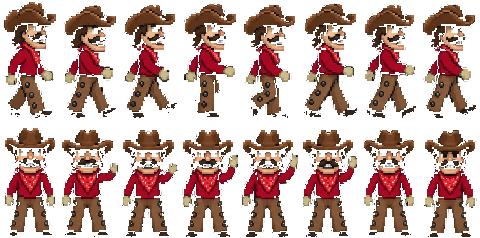
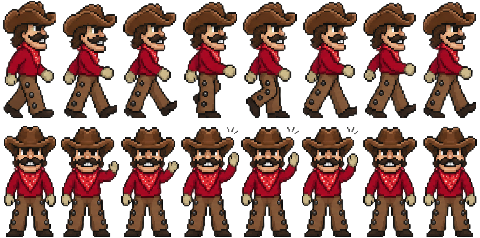
Fix the ranger's holes, shorten his walk, give him something to walk behind
The holes
- The sheet was built by finding the background with a brightness test and
  deleting it. That located the frames correctly and then deleted every dark
  pixel inside them - 11,944 per frame - which is his outline, his boots and
  every shadowed fold. Hence a character full of gaps.
- The source already carries alpha. The backdrop is alpha 0 to 4 with junk RGB
  underneath, so transparency needed reading, not inferring. Frame geometry
  still comes from the brightness pass, which is good at finding where the art
  is and has no business deciding what inside it is art.
- Frame 0 now keeps 1,628 dark pixels that the previous build removed entirely.

The walk
- Shorter and quicker: 17% of the composer instead of 32%, 88 px/s instead of
  46, and a 1.5s wave instead of 2.2s. The old timing had him strolling for
  the better part of six seconds, which is a long time for a joke.

Appearing from nothing
- He materialised at the left edge and dissolved there on the way out. He now
  walks inside a strip that clips at its own edges, so he passes behind them
  like a figure leaving the side of a stage.
- A clipping strip rather than a white block over the top: an occluder would
  have to match whatever is behind it, and depending on the skin and the state
  that is a pill, a suggestion strip, or the page.

diff --git a/templates/index.html b/templates/index.html
@@ -44,9 +44,26 @@
        away from each frame's edge rather than thresholded, so the character's
        own dark outline and boots survive, and every frame is bottom-aligned on
        one baseline so he does not bob while walking. */
+    /* The strip he walks along, and the reason he does not appear from
+       nothing. It clips at its own edges, so he passes behind them the way a
+       figure walks off the side of a stage rather than fading out mid-air.
+       Cheaper than an overlay too: an occluding white block would have to
+       match whatever is behind it, and here there is a pill, a suggestion
+       strip and a page edge behind it depending on the skin. */
+    .ranger-stage {
+      position: absolute;
+      left: 0;
+      right: 0;
+      bottom: 100%;
+      height: 56px;
+      overflow: hidden;
+      pointer-events: none;
+      z-index: 40;
+    }
+
     .ranger {
       position: absolute;
-      bottom: 100%;
+      bottom: 0;
       width: 27px;
       height: 54px;
       background-image: url("/static/ranger.png");
@@ -1851,19 +1868,23 @@
       if (!rail) return;
       busy = true;
 
+      const stage = document.createElement("div");
+      stage.className = "ranger-stage";
+      stage.setAttribute("aria-hidden", "true");
+
       const el = document.createElement("div");
       el.className = "ranger walking";
-      el.style.left = "-40px";
-      el.setAttribute("aria-hidden", "true");
-      rail.appendChild(el);
+      el.style.left = "-34px";
+      stage.appendChild(el);
+      rail.appendChild(stage);
 
       // How far he walks is a share of the rail rather than a pixel count, so
       // the trip makes sense on a phone and on a wide window. The duration is
       // derived from the distance to hold his speed constant - a fixed
       // duration would have him sprinting across a large screen.
-      const stop = Math.max(60, Math.round(rail.clientWidth * 0.32));
-      const speed = 46; // px per second, about right for the stride
-      const walkMs = Math.round((stop + 40) / speed * 1000);
+      const stop = Math.max(44, Math.round(rail.clientWidth * 0.17));
+      const speed = 88; // px per second, matched to the stride at 0.72s a loop
+      const walkMs = Math.round((stop + 34) / speed * 1000);
 
       requestAnimationFrame(() => {
         el.style.transition = "left " + walkMs + "ms linear";
@@ -1874,14 +1895,14 @@
         el.classList.remove("waving");
         el.classList.add("walking", "leaving");
         el.style.transition = "left " + walkMs + "ms linear";
-        el.style.left = "-40px";
-        setTimeout(() => { el.remove(); busy = false; }, walkMs + 150);
+        el.style.left = "-34px";
+        setTimeout(() => { stage.remove(); busy = false; }, walkMs + 150);
       };
 
       const wave = () => {
         el.classList.remove("walking");
         el.classList.add("waving");
-        setTimeout(leave, 2200);
+        setTimeout(leave, 1500);
       };
 
       setTimeout(wave, walkMs + 80);
